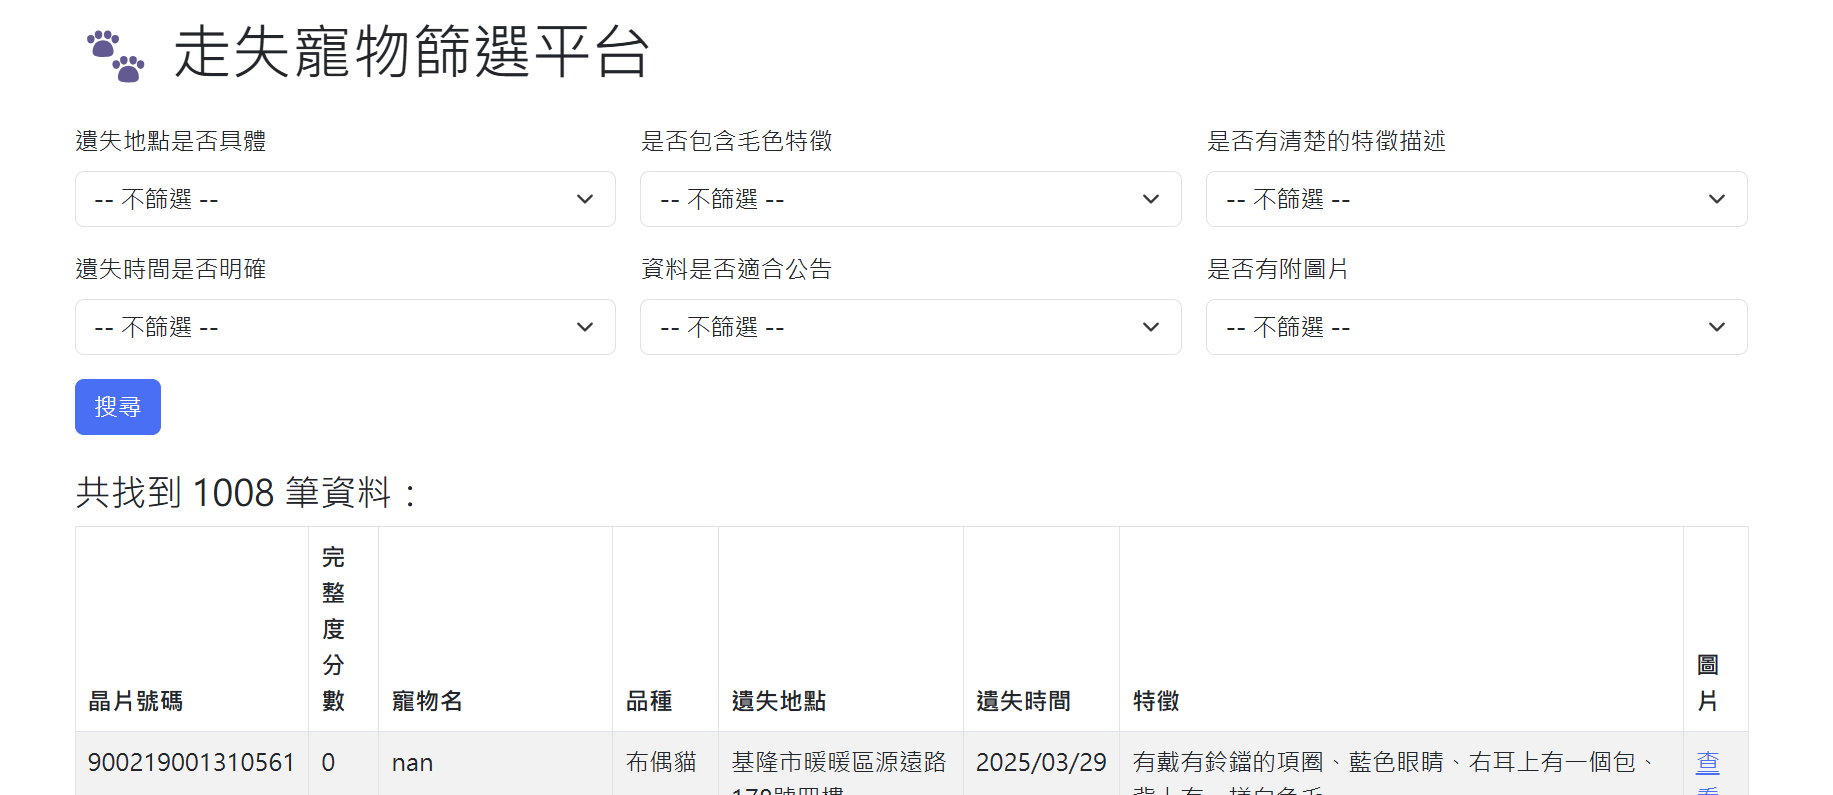
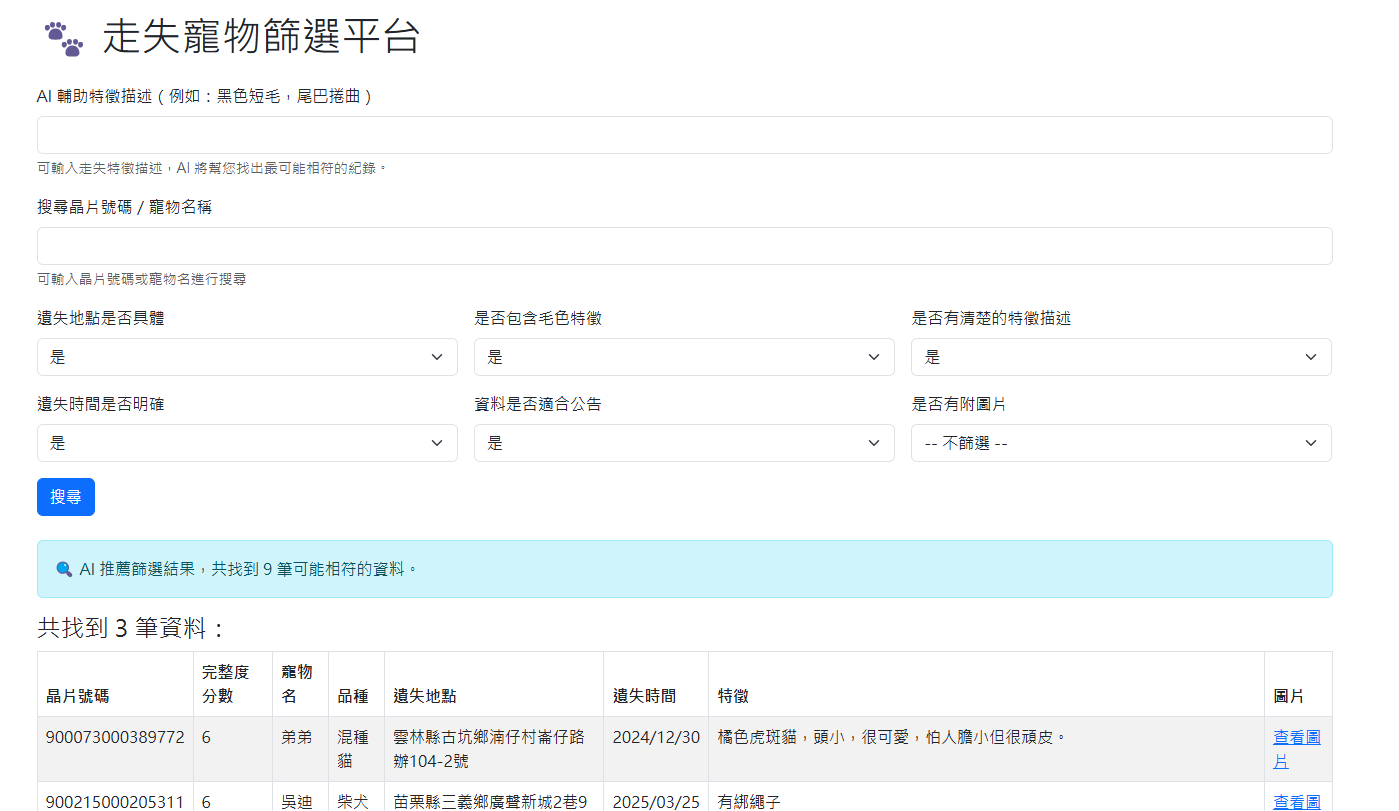
new searching functions

diff --git a/autogen/petLoss/templates/index.html b/autogen/petLoss/templates/index.html
@@ -15,6 +15,13 @@
         <input type="text" class="form-control" id="feature_input" name="feature_input" value="{{ request.form.get('feature_input', '') }}">
         <div class="form-text">可輸入走失特徵描述，AI 將幫您找出最可能相符的紀錄。</div>
       </div>
+      
+      <div class="col-12">
+        <label for="search_input" class="form-label">搜尋晶片號碼／寵物名稱</label>
+        <input type="text" class="form-control" id="search_input" name="search_input" value="{{ search_input }}">
+        <div class="form-text">可輸入晶片號碼或寵物名進行搜尋</div>
+      </div>
+      
 
       {% for item in items %}
         <div class="col-md-4">

diff --git a/autogen/petLoss/app.py b/autogen/petLoss/app.py
@@ -31,76 +31,109 @@ def index():
     selected = {}
     results = []
     recommended_chip_ids = []
+    search_keyword = ""
     filename = request.args.get("file", default="pet_batch_output1.csv")
     loss_file = filename.replace("pet_batch_output", "loss")
 
     if os.path.exists(filename) and os.path.exists(loss_file):
         df_analysis = pd.read_csv(filename)
         df_loss = pd.read_csv(loss_file)
-        df = pd.merge(df_analysis, df_loss, on="晶片號碼", how="left")
-        df["完整度分數"] = df.apply(calculate_score, axis=1)
+        df_loss["晶片號碼"] = df_loss["晶片號碼"].astype(str).str.strip()
+        df_analysis["晶片號碼"] = df_analysis["晶片號碼"].astype(str).str.strip()
 
         if request.method == "POST":
             feature_input = request.form.get("feature_input", "").strip()
+            search_keyword = request.form.get("search_input", "").strip()
 
             if feature_input:
-                prompt = (
-                    f"請根據以下走失特徵描述：「{feature_input}」，"
-                    "從資料中找出最可能符合的紀錄（根據外觀、特徵、品種等），"
-                    "僅回覆晶片號碼，每行一個，最多 10 筆，不要加入任何文字說明。\n\n"
-                    "例如：\n990000000123456\n990000000654321"
+                # Step 1: 先進行關鍵字直接比對（品種、毛色、外觀、特徵）
+                keywords = feature_input.strip().split()
+                match_mask = df_loss.apply(
+                    lambda row: any(
+                        kw in str(row.get(field, "")) 
+                        for kw in keywords 
+                        for field in ["品種", "毛色", "外觀", "特徵"]
+                    ),
+                    axis=1
                 )
+                matched_loss = df_loss[match_mask]
 
-                records = []
-                for _, row in df.iterrows():
-                    desc = f"晶片號碼：{row['晶片號碼']}，品種：{row.get('品種','')}，毛色：{row.get('毛色','')}，外觀：{row.get('外觀','')}，特徵：{row.get('特徵','')}"
-                    records.append(desc)
+                if not matched_loss.empty:
+                    matched_chip_ids = matched_loss["晶片號碼"].tolist()
+                    print(f"✅ 直接關鍵字命中 {len(matched_chip_ids)} 筆")
+                    filtered_loss = matched_loss
+                    filtered_analysis = df_analysis[df_analysis["晶片號碼"].isin(matched_chip_ids)]
+                    df = pd.merge(filtered_analysis, filtered_loss, on="晶片號碼", how="left")
+                    df["完整度分數"] = df.apply(calculate_score, axis=1)
+                    recommended_chip_ids = matched_chip_ids  # 讓前端知道有推薦數
+                else:
+                    # Step 2: 若完全無命中，再使用 Gemini AI 推測
+                    prompt = (
+                        f"請根據以下走失特徵描述：「{feature_input}」，"
+                        "從資料中找出最可能符合的紀錄（根據品種、毛色、外觀、特徵），"
+                        "僅回覆晶片號碼，每行一個，最多 20 筆，不要加入任何文字說明。\n\n"
+                        "例如：\n990000000123456\n900073000429121"
+                    )
 
-                full_prompt = prompt + "\n\n" + "\n".join(records[:100])
+                    records = []
+                    for _, row in df_loss.iterrows():
+                        desc = f"晶片號碼：{row['晶片號碼']}，品種：{row.get('品種','')}，毛色：{row.get('毛色','')}，外觀：{row.get('外觀','')}，特徵：{row.get('特徵','')}"
+                        records.append(desc)
 
-                try:
-                    model = genai.GenerativeModel("gemini-1.5-pro-latest")
-                    response = model.generate_content(full_prompt)
-                    response_text = response.text
+                    full_prompt = prompt + "\n\n" + "\n".join(records[:1000])
 
-                    recommended_chip_ids = [
-                        line.strip() for line in response_text.strip().splitlines()
-                        if line.strip().isdigit()
-                    ]
+                    try:
+                        model = genai.GenerativeModel("gemini-1.5-pro-latest")
+                        response = model.generate_content(full_prompt)
+                        response_text = response.text
 
-                    if recommended_chip_ids:
-                        df["晶片號碼"] = df["晶片號碼"].astype(str).str.strip()
-                        recommended_chip_ids = [chip.strip() for chip in recommended_chip_ids]
-                        before_filter = len(df)
-                        df = df[df["晶片號碼"].isin(recommended_chip_ids)]
-                        after_filter = len(df)
-                        print(f"🔍 Gemini 推薦 {len(recommended_chip_ids)} 筆，實際比對過濾後剩 {after_filter} / {before_filter} 筆")
-                    else:
-                        print("⚠ Gemini 沒有回傳有效晶片號碼。")
+                        recommended_chip_ids = [
+                            line.strip() for line in response_text.strip().splitlines()
+                            if line.strip().isdigit()
+                        ]
 
-                    print("✅ Gemini 回傳內容：\n", response_text)
+                        if recommended_chip_ids:
+                            filtered_loss = df_loss[df_loss["晶片號碼"].isin(recommended_chip_ids)]
+                            filtered_analysis = df_analysis[df_analysis["晶片號碼"].isin(recommended_chip_ids)]
+                            df = pd.merge(filtered_analysis, filtered_loss, on="晶片號碼", how="left")
+                            df["完整度分數"] = df.apply(calculate_score, axis=1)
+                            print(f"🤖 Gemini 推薦 {len(recommended_chip_ids)} 筆，成功比對 {len(df)} 筆資料")
+                        else:
+                            print("⚠ Gemini 沒有回傳有效晶片號碼。")
+                            df = pd.DataFrame()
+                        print("✅ Gemini 回傳內容：\n", response_text)
+                    except Exception as e:
+                        print("Gemini 分析失敗：", e)
+                        df = pd.DataFrame()
 
-                except Exception as e:
-                    print("Gemini 分析失敗：", e)
+            else:
+                df = pd.merge(df_analysis, df_loss, on="晶片號碼", how="left")
+                df["完整度分數"] = df.apply(calculate_score, axis=1)
+
+            if search_keyword:
+                df = df[
+                    df["晶片號碼"].astype(str).str.contains(search_keyword, na=False) |
+                    df.get("寵物名", "").astype(str).str.contains(search_keyword, na=False)
+                ]
 
             for item in ITEMS:
                 val = request.form.get(item)
                 if val:
                     selected[item] = val
             for k, v in selected.items():
-                df = df[df[k] == v]
+                if k in df.columns:
+                    df = df[df[k] == v]
 
             df = df.sort_values(by="完整度分數", ascending=False)
-
-        # ✅ 轉為 dict list 給前端
-        results = df.to_dict(orient="records")
+            results = df.to_dict(orient="records")
 
     return render_template(
         "index.html",
         items=ITEMS,
         results=results,
         selected=selected,
-        recommended_count=len(recommended_chip_ids)
+        recommended_count=len(recommended_chip_ids),
+        search_input=search_keyword
     )
 
 if __name__ == "__main__":

diff --git a/autogen/petLoss/README.md b/autogen/petLoss/README.md
@@ -1,76 +1,124 @@
-# Lost Pet Dataset Analysis & Search Platform
 
-## 📁 Data Description
+# 🐾 Lost Pet Dataset AI Analysis & Search Platform
 
-This project uses a dataset of reported lost pets in CSV format, named `petLoss.csv`. Each record contains the following fields:
-
-- Chip number  
-- Pet name  
-- Pet type and sex  
-- Breed  
-- Color  
-- Appearance / Features  
-- Lost time and location  
-- Owner name and contact info  
-- Picture URL (if any)
+A Flask-based AI-powered web platform for analyzing and searching lost pet data.  
+This project combines structured evaluation with Gemini API to enhance pet recovery efforts through intelligent recommendations and interactive filtering.
 
 ---
 
-## 🤖 `pet_analyzer.py` Script Key Points
+## 📁 Dataset Description
 
-### Analysis Items (ITEMS)
+The main dataset is in `CSV` format (`petLoss.csv`) with the following fields:
 
-- Is the lost location specific?  
-- Does it contain recognizable color features?  
-- Is the feature/appearance description clear?  
-- Is the lost time clearly defined?  
-- Is the information suitable for public notice?  
-- Suggestions for improving report completeness  
-- Is there a photo provided?
-
-### Prompt Logic
-
-Each batch of records is sent to the Gemini API with an instruction to analyze the fields above and return structured CSV responses per item.
-
-### Input/Output Files
-
-- Input: `petLoss.csv` or split files like `loss1.csv`, `loss2.csv`, etc.  
-- Output: `pet_batch_output1.csv`, `pet_batch_output2.csv`, etc., each with Gemini analysis results
+- `晶片號碼` (Chip number)  
+- `寵物名` (Pet name)  
+- `寵物別`, `性別` (Pet type & gender)  
+- `品種` (Breed)  
+- `毛色` (Color)  
+- `外觀`, `特徵` (Appearance, features)  
+- `遺失時間`, `遺失地點` (Lost time & location)  
+- `飼主姓名`, `連絡電話`, `Email`  
+- `PICTURE` (Image link)
 
 ---
 
-## 🌐 Flask Web Interface
+## 🤖 AI Analysis: `pet_analyzer.py`
 
-- The web backend is implemented using `app.py`
-- Default route `/` loads the web page
-- Specify the file to display using query string, e.g. `?file=pet_batch_output1.csv`
-- Automatically merges with the corresponding `loss1.csv` for displaying original details
-- Supports filtering by analysis fields and sorting by completeness score
+### Analysis Targets (Gemini)
+
+Each record is evaluated on the following criteria:
+
+- 是否提供具體且詳細的遺失地點（是否具體）
+- 毛色與外觀描述是否足夠辨識
+- 是否有明顯的個別特徵（如斷尾、異色眼）
+- 遺失時間是否明確（有日期與時間）
+- 是否有清晰圖片
+- 是否適合公告
+- 建議補充哪些資訊（例如個性、是否結紮）
+
+### Prompt Strategy
+
+- The script constructs a batch prompt to Gemini API with 100 records per request.
+- Responses are structured CSV strings separated by delimiters.
+- Each result is parsed and written to new CSV output.
+
+### Input / Output
+
+- Input:
+  - `petLoss.csv` or split files: `loss1.csv`, `loss2.csv`, ...
+- Output:
+  - `pet_batch_output1.csv`, `pet_batch_output2.csv`, ...
+
+---
+
+## 🌐 Web Interface: `app.py`
+
+Built with Flask, the web interface provides:
+
+- File loading via `?file=pet_batch_output1.csv`
+- Merge with `loss1.csv` for full context
+- Filtering based on AI-evaluated fields
+- Additional manual search:
+  - 🔍 Chip number or pet name keyword
+  - 🧠 AI-assisted feature search via Gemini
+
+### Web Features
+
+- Sort by completeness score (based on AI fields)
+- Search and filter simultaneously
+- Easy data browsing and review
 
 ---
 
-## 🚀 How to Use
+## 🧪 How to Use
 
-### 1. Split the main dataset into 1000-record chunks
-`python pet_analyzer.py split`
+### Step 1⃣ – Split the Dataset  
+Split the original file into chunks of 1000 records:  
+```bash
+python pet_analyzer.py split
+```
 
-### 2. Analyze all split files automatically
-`python pet_analyzer.py`
+### Step 2⃣ – Analyze All Files  
+Batch process all split files using Gemini:  
+```bash
+python pet_analyzer.py
+```
 
-### 3. Analyze a specific file
-`python pet_analyzer.py loss1.csv`
+### Step 3⃣ – Analyze a Specific File  
+Analyze a single CSV file:  
+```bash
+python pet_analyzer.py loss1.csv
+```
 
-### 4. Start the web server
-`python app.py`
+### Step 4⃣ – Start the Flask Web App  
+```bash
+python app.py
+```
 
-### 5. Open your browser
-`http://127.0.0.1:5000/?file=pet_batch_output*.csv`
-- *=serial number of natch data. 
+### Step 5⃣ – Open in Browser  
+```
+http://127.0.0.1:5000/?file=pet_batch_output*.csv
+```
+- * is series number of batch data.
 
-### 6. Display help instructions
-`python pet_analyzer.py help`
+### Step 6⃣ – View Help  
+```bash
+python pet_analyzer.py help
+```
 
 ---
-## Demo Screenshot
+
+## 🖼 Demo Screenshot
+
 ![Demo](https://github.com/41171119H/Data-Structure/blob/main/autogen/petLoss/petLossDemo.png)
 
+---
+
+## 💡 Future Ideas
+
+- Export filtered results
+- Keyword tagging of special features
+- Smart scoring for matching accuracy
+- Integration with pet shelter open data
+
+---
